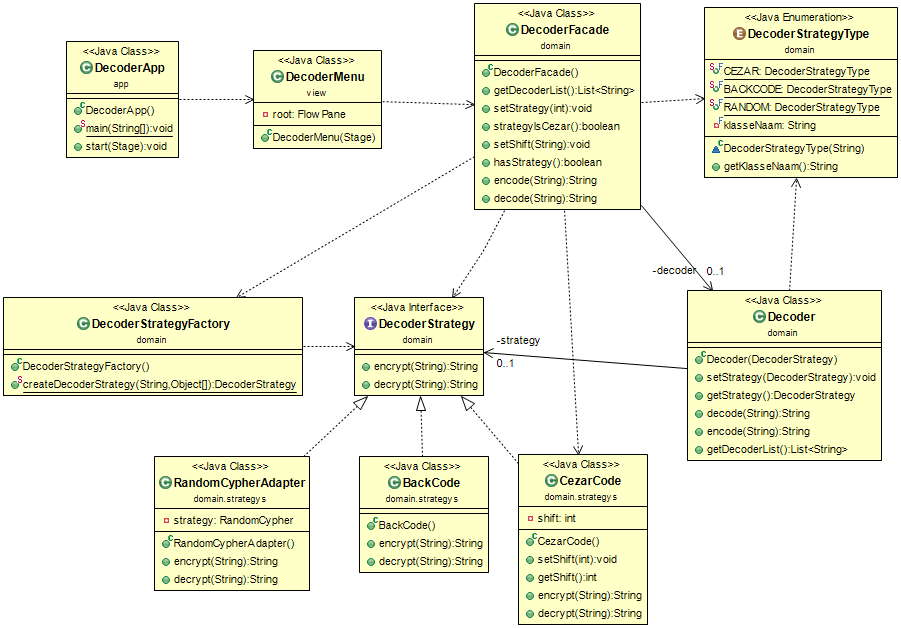
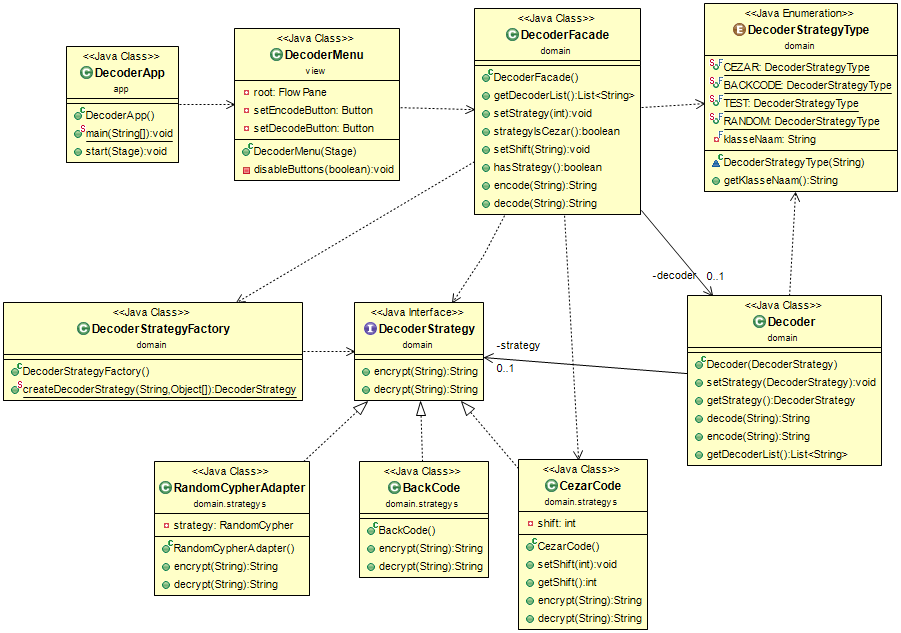
Add files via upload

diff --git a/labo 2 project/src/view/DecoderMenu.java b/labo 2 project/src/view/DecoderMenu.java
@@ -20,6 +20,8 @@ import javafx.stage.Stage;
 
 public class DecoderMenu {
 	private FlowPane root;
+	private Button setEncodeButton;
+	private Button setDecodeButton;
 	
 	public DecoderMenu(Stage primaryStage) {
 
@@ -46,10 +48,10 @@ public class DecoderMenu {
 		outputField.setMaxHeight(100);
 		outputField.setMaxWidth(250);
 		
-		Button setEncodeButton = new Button("Encode");
-		setEncodeButton.setDisable(true);
-		Button setDecodeButton = new Button("Decode");
-		setDecodeButton.setDisable(true);
+		setEncodeButton = new Button("Encode");
+		setDecodeButton = new Button("Decode");
+		
+		disableButtons(true);
 		
 		//ObservableList<String> choices = FXCollections.observableArrayList("Cezar", "Backcode", "Random");
 		ObservableList<String> choices = FXCollections.observableArrayList(decoder.getDecoderList());
@@ -60,8 +62,7 @@ public class DecoderMenu {
 			@Override
 			public void changed(ObservableValue<? extends Number> observable, Number oldValue, Number newValue) {
 				if (!inputField.getText().isEmpty()) {
-					setDecodeButton.setDisable(false);
-					setEncodeButton.setDisable(false);
+					disableButtons(false);
 				}
 				decoder.setStrategy((int)newValue);
 			}
@@ -71,22 +72,26 @@ public class DecoderMenu {
 			if (decoder.strategyIsCezar()) {
 				try {
 					decoder.setShift(newValue);
-					setDecodeButton.setDisable(false);
-					setEncodeButton.setDisable(false);
+					if (!inputField.getText().trim().isEmpty()) {
+						disableButtons(false);
+					}
 				} catch (IllegalArgumentException e) {
-					setDecodeButton.setDisable(true);
-					setEncodeButton.setDisable(true);
+					disableButtons(true);
 				}
 			}
 		});
 		
 		inputField.textProperty().addListener((observable, oldValue, newValue) -> {
 		    if (!newValue.trim().isEmpty() && decoder.hasStrategy()) {
-		    	setDecodeButton.setDisable(false);
-				setEncodeButton.setDisable(false);
+		    	if (decoder.strategyIsCezar()) {
+					if (!Shift.getText().trim().isEmpty()) {
+						disableButtons(false);
+					}
+				} else {
+					disableButtons(false);
+				}
 		    } else {
-		    	setDecodeButton.setDisable(true);
-				setEncodeButton.setDisable(true);
+		    	disableButtons(true);
 		    }
 		});
 		
@@ -113,5 +118,10 @@ public class DecoderMenu {
 		root.getChildren().add(setEncodeButton);
 		root.getChildren().add(setDecodeButton);
 		primaryStage.show();
+	}
+	
+	private void disableButtons(boolean b) {
+		setDecodeButton.setDisable(b);
+		setEncodeButton.setDisable(b);
 	}
 }

diff --git a/labo 2 project/src/domain/strategys/testCode.java b/labo 2 project/src/domain/strategys/testCode.java
@@ -1,0 +1,15 @@
+package domain.strategys;
+
+import domain.DecoderStrategy;
+
+public class testCode implements DecoderStrategy {
+	@Override
+	public String encrypt(String s) {
+		return s+"tt";
+	}
+
+	@Override
+	public String decrypt(String s) {
+		return s.substring(0, s.length()-2);
+	}
+}

diff --git a/labo 2 project/src/domain/DecoderStrategyType.java b/labo 2 project/src/domain/DecoderStrategyType.java
@@ -3,6 +3,7 @@ package domain;
 public enum DecoderStrategyType {
 	CEZAR ("domain.strategys.CezarCode"),
 	BACKCODE ("domain.strategys.BackCode"),
+	TEST ("domain.strategys.testCode"),
 	RANDOM ("domain.strategys.RandomCypherAdapter");
   
 	private final String klasseNaam; 
